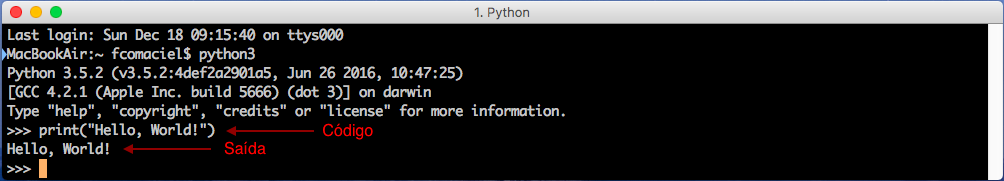
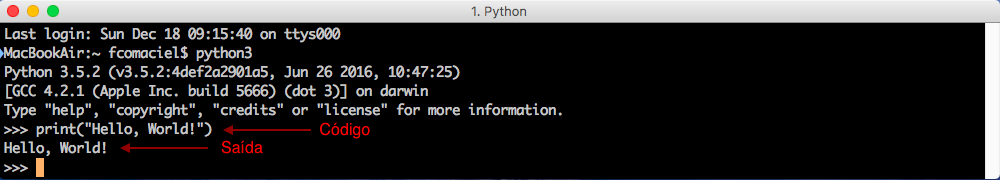
Otimimização das imagens

Changed region(s): [[0.0, 0.0, 1.0, 1.0]]

diff --git a/css/style.css b/css/style.css
@@ -3,5 +3,5 @@ body {
 	font-size: 1.8em;
 }
 img {
-	max-width: 80%; 
+	width: 80%; 
 }
